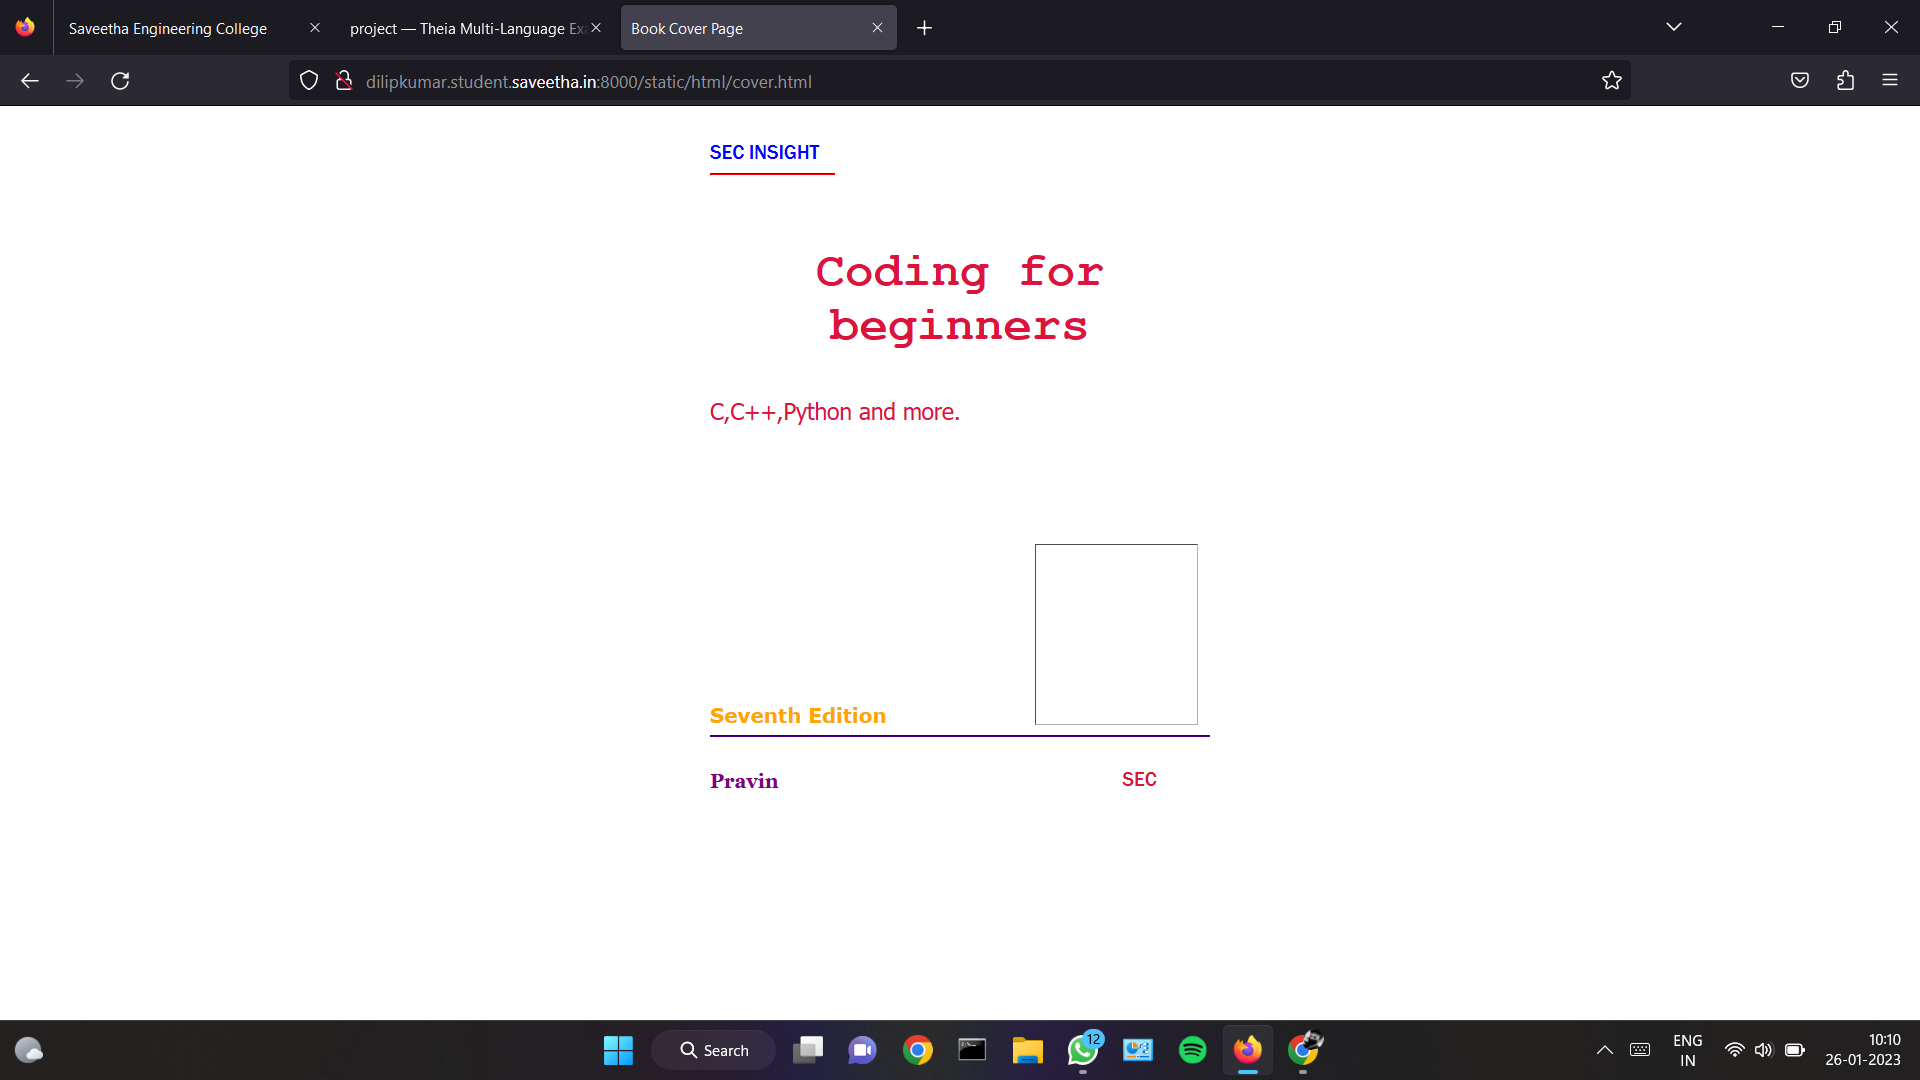
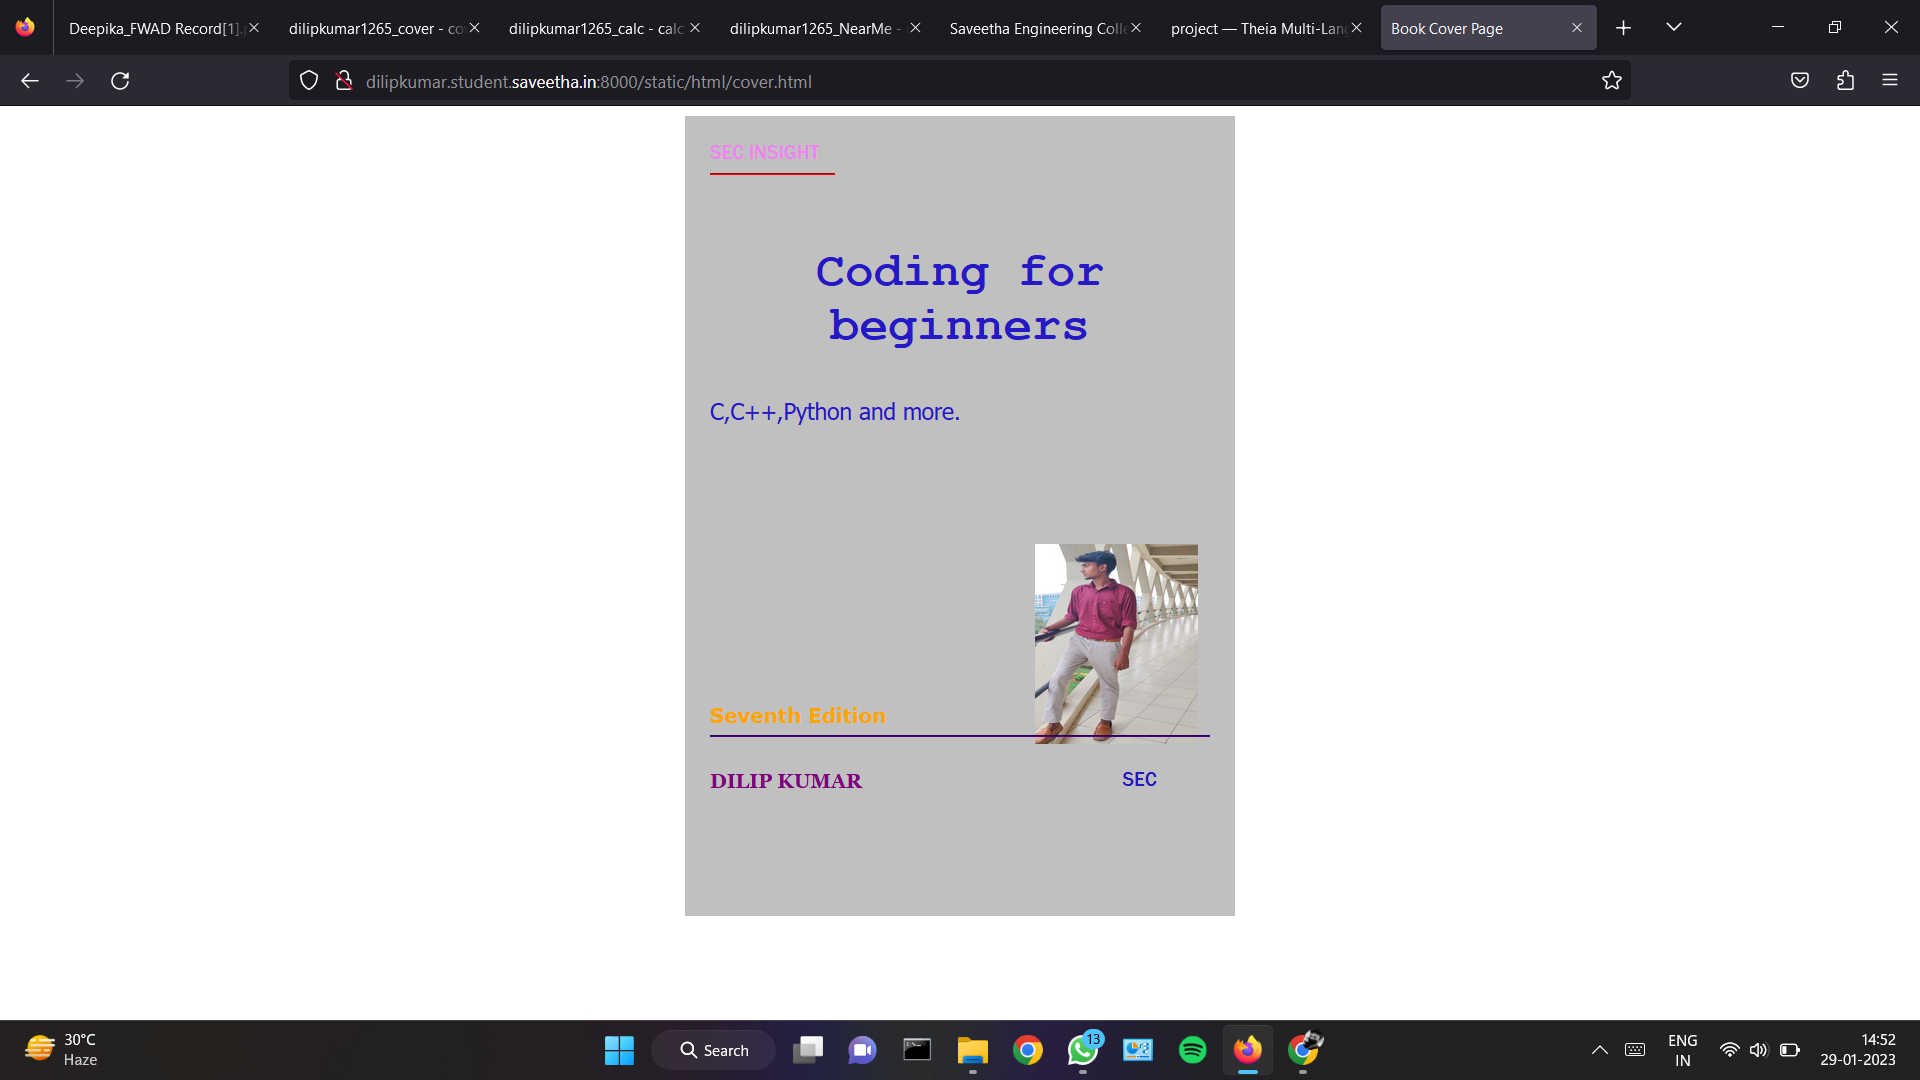
success

diff --git a/dilipkumar1265/static/html/cover.html b/dilipkumar1265/static/html/cover.html
@@ -8,18 +8,18 @@
         .bookpage{
             width: 400px;
             height: 600px;
-            color:crimson;
+            color:rgb(36, 25, 197);
             margin-left: auto;
             margin-right: auto;
             padding: 20px;
             font-family: 'Franklin Gothic Medium', 'Arial Narrow', Arial, sans-serif;
-            background-image: url(/static/images/back.jpg);
+            background-image: url(/static/images/color.png);
             background-size: cover;
         }
             
 
         .insight{
-            color: blue;
+            color:violet;
 
         }
 
@@ -96,13 +96,13 @@
                 C,C++,Python and more.
             </div>
             <div class="mypic">
-                <img src="/static/images/my.jpg" width="130" height="145" alt="">
+                <img src="/static/images/dkdilip.jpg" width="130" height="160" alt="">
             </div>
             <div class="id">
                 <hr style="color: indigo;">
             </div>
             <div class="author">
-               <p><b>Pravin</b></p>
+               <p><b>DILIP KUMAR</b></p>
             </div>
             <div class="pub">
                 SEC

diff --git a/README.md b/README.md
@@ -22,18 +22,18 @@ Write the HTML and CSS code for designing book cover page and execute them.
         .bookpage{
             width: 400px;
             height: 600px;
-            color:crimson;
+            color:rgb(36, 25, 197);
             margin-left: auto;
             margin-right: auto;
             padding: 20px;
             font-family: 'Franklin Gothic Medium', 'Arial Narrow', Arial, sans-serif;
-            background-image: url(/static/images/back.jpg);
+            background-image: url(/static/images/color.png);
             background-size: cover;
         }
             
 
         .insight{
-            color: blue;
+            color:violet;
 
         }
 
@@ -110,13 +110,13 @@ Write the HTML and CSS code for designing book cover page and execute them.
                 C,C++,Python and more.
             </div>
             <div class="mypic">
-                <img src="/static/images/my.jpg" width="130" height="145" alt="">
+                <img src="/static/images/dkdilip.jpg" width="130" height="160" alt="">
             </div>
             <div class="id">
                 <hr style="color: indigo;">
             </div>
             <div class="author">
-               <p><b>Pravin</b></p>
+               <p><b>DILIP KUMAR</b></p>
             </div>
             <div class="pub">
                 SEC
